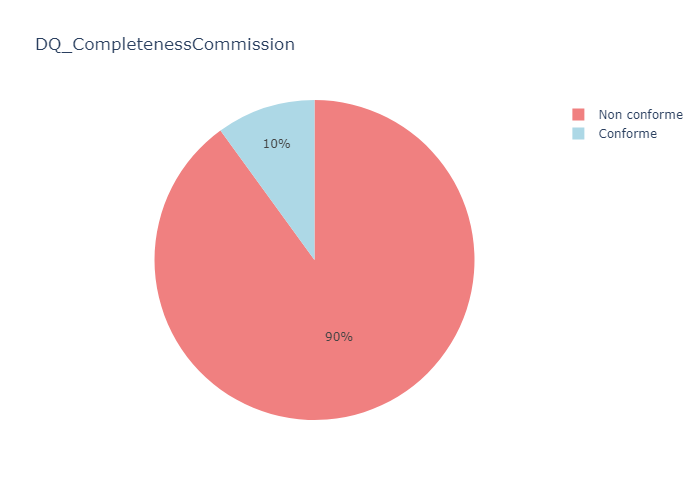
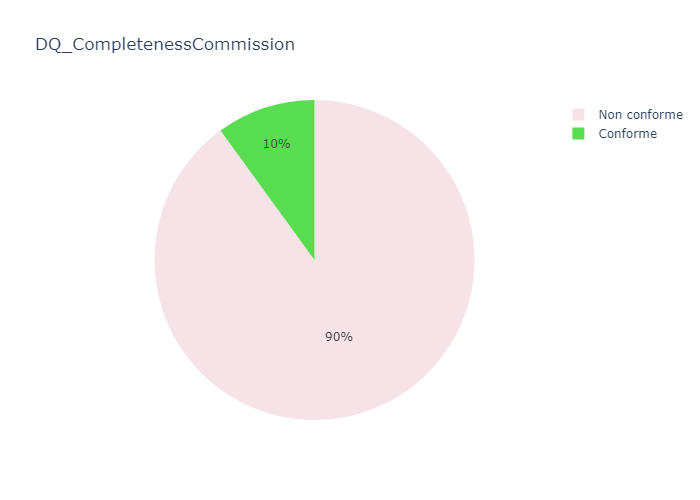
nouvelles couleurs

Changed region(s): [[0.21, 0.18, 0.69, 0.84], [0.81, 0.21, 0.84, 0.3]]

diff --git a/quadorender.py b/quadorender.py
@@ -33,7 +33,7 @@ def render_plot_real(metric, value, output_plot):
 	df = pd.DataFrame(data)
 	fig = px.pie(df, values='values', names='labels', title=metric, 
 	color='labels', 
-	color_discrete_map={'Conforme':'lightblue', 'Non conforme':'lightcoral'})	
+	color_discrete_map={'Conforme':'#58dd51', 'Non conforme':'#f6e3e7'})	
 	fig.write_image(output_plot)
 	
 # render_plot
@@ -86,7 +86,7 @@ def render_radar(values, labels, output_plot):
 		theta=labels))
 		
 	fig = px.line_polar(df, r='r', theta='theta', line_close=True)
-	fig.update_traces(fill='toself')
+	fig.update_traces(fill='toself', fillcolor='#58dd51', line_color = "#58dd51")
 	fig.update_layout(
 		polar=dict(
 		radialaxis=dict(
